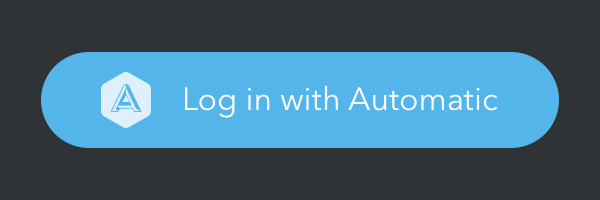
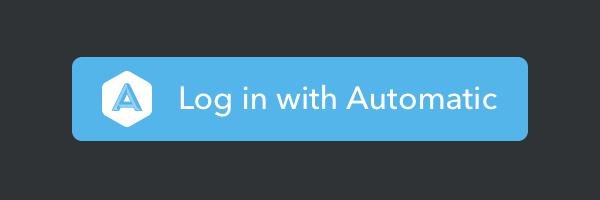
Update log in with automatic button to match standard

Changed region(s): [[0.06, 0.24, 0.93, 0.75], [0.3, 0.42, 0.84, 0.6], [0.15, 0.36, 0.27, 0.63]]

diff --git a/Example/ExampleApp/UIButton+LogInButton.m b/Example/ExampleApp/UIButton+LogInButton.m
@@ -14,11 +14,11 @@
     UIButton *button = [UIButton buttonWithType:UIButtonTypeSystem];
     button.backgroundColor = [UIColor colorWithRed:0.33f green:0.71f blue:0.92f alpha:1.0f];
     button.tintColor = [UIColor whiteColor];
-    button.layer.cornerRadius = 24.0;
+    button.layer.cornerRadius = 5.0;
     
-    CGFloat imageTextPadding = 15.0;
-    CGFloat horizontalInset = 30.0;
-    CGFloat verticalInset = 10.0;
+    CGFloat imageTextPadding = 13.0;
+    CGFloat horizontalInset = 15.0;
+    CGFloat verticalInset = 7.0;
     
     button.titleEdgeInsets = (UIEdgeInsets){
         .left = imageTextPadding,
@@ -32,7 +32,7 @@
         .right = imageTextPadding + horizontalInset
     };
     
-    button.titleLabel.font = [UIFont fontWithName:@"AvenirNext-Regular" size:16.0];
+    button.titleLabel.font = [UIFont fontWithName:@"AvenirNext-Medium" size:16.0];
     
     [button setImage:[UIImage imageNamed:@"AutomaticLogo"] forState:UIControlStateNormal];
     [button setTitle:@"Log in with Automatic" forState:UIControlStateNormal];
